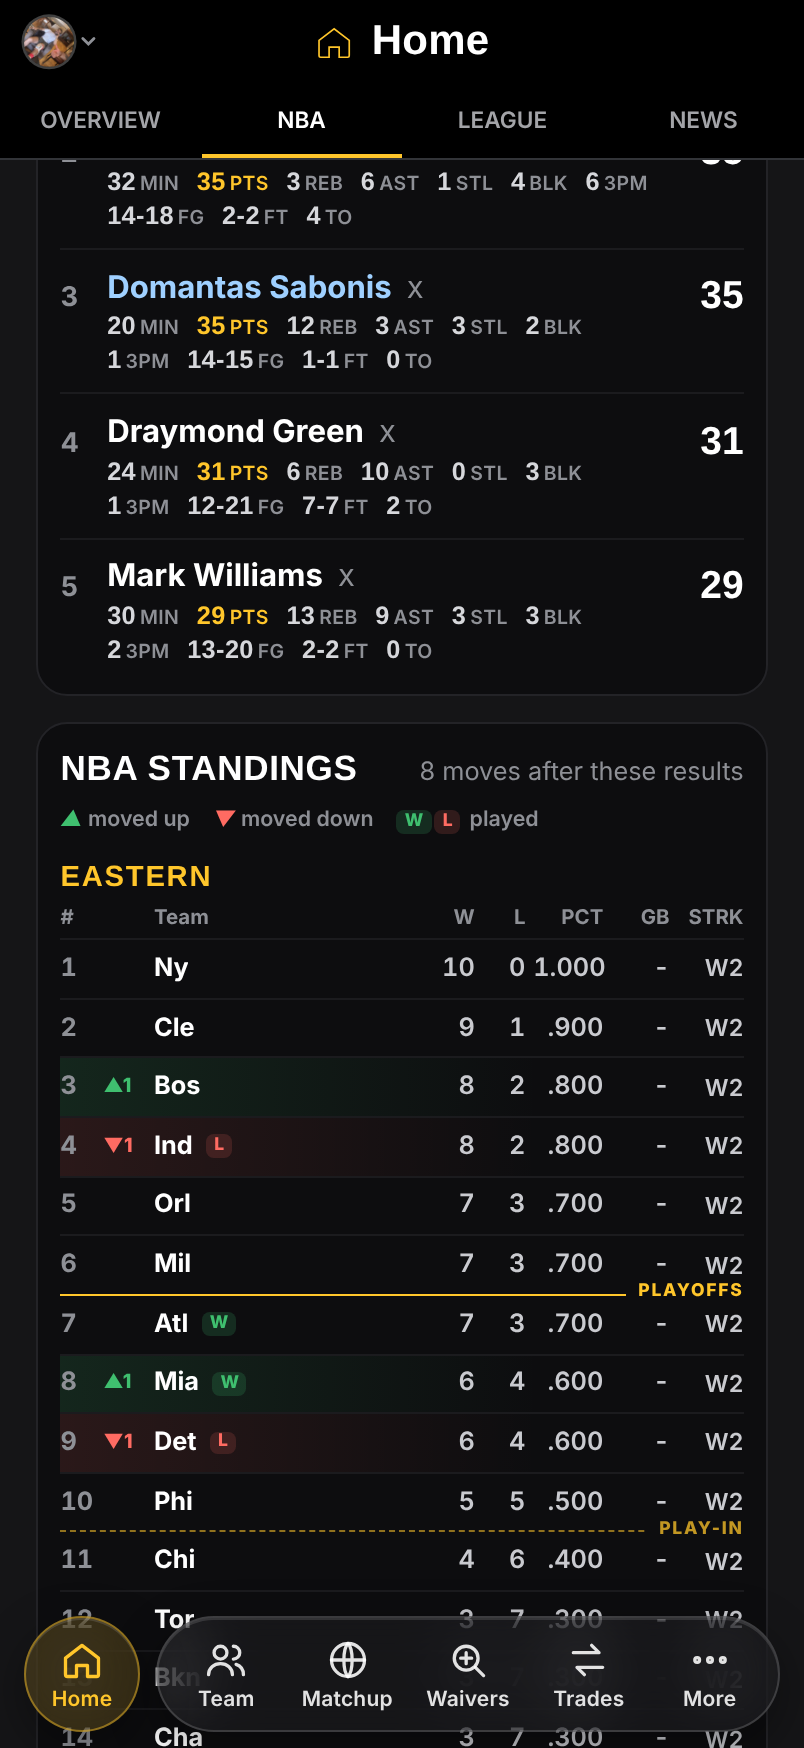
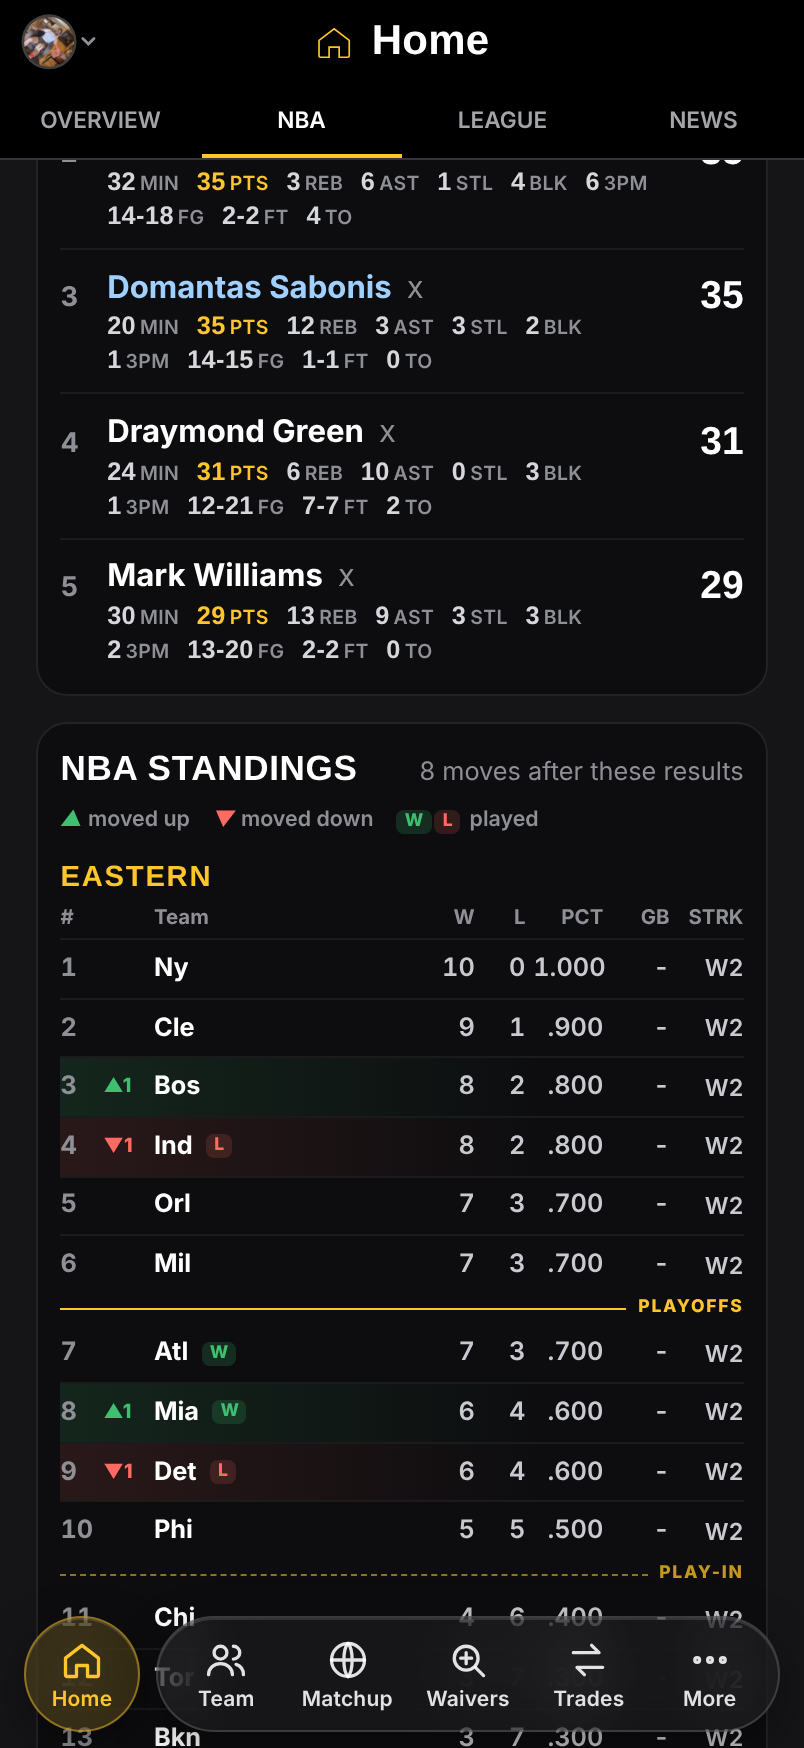
Top performers: rank numbers styled like Leaders
Claude-Session: https://claude.ai/code/session_01Bze7554zYTgci3mfzKEDgc

diff --git a/classic.html b/classic.html
@@ -1310,6 +1310,9 @@ html body .hdstk.fphd .fphtabs button{font-size:13.5px!important}
 #fphc .nhstand .nscut::before{content:"";flex:1;border-top:2px solid #ffc62b}
 #fphc .nhstand .nscut.pi::before{border-top:2px dashed rgba(255,198,43,.55)}
 #fphc .nhstand .nscut span{position:static;padding:0;background:none}
+#fphc .nht .pn .rk{position:static;box-shadow:none;background:none;color:#8e9096;font:700 14px system-ui;min-width:16px;height:auto;line-height:normal;padding:0;border-radius:0;text-align:left}
+#fphc .nht .pn{gap:8px;padding-left:0}
+#fphc .nht .hr span:first-child{padding-left:62px}
 </style>
 <div class="stage">
  <aside class="side"><h1>Fantasy Plus <span>for iPhone</span></h1><p>Design of the iPhone app. Tap around, it all works: the tabs, the players, the trade builder.</p><ul><li><b>Home</b>: score, last night, this week's review, category ranks, waivers. Tap the score for the full game.</li><li><b>Team</b>: roster and player cards</li><li><b>Matchup</b>: ESPN-style category table with our ball logic</li><li><b>More</b>: rankings and settings</li><li><b>Trades</b>: your market and the builder</li></ul><p>Numbers are a snapshot of your Anti-Quemo league (preseason projections). Photos show as initials here; the app uses real headshots.</p><p>On your phone, open this link directly and it fills the screen.</p></aside>

diff --git a/index.html b/index.html
@@ -1362,6 +1362,9 @@ html body .hdstk.fphd .fphtabs button{font-size:13.5px!important}
 #fphc .nhstand .nscut::before{content:"";flex:1;border-top:2px solid #ffc62b}
 #fphc .nhstand .nscut.pi::before{border-top:2px dashed rgba(255,198,43,.55)}
 #fphc .nhstand .nscut span{position:static;padding:0;background:none}
+#fphc .nht .pn .rk{position:static;box-shadow:none;background:none;color:#8e9096;font:700 14px system-ui;min-width:16px;height:auto;line-height:normal;padding:0;border-radius:0;text-align:left}
+#fphc .nht .pn{gap:8px;padding-left:0}
+#fphc .nht .hr span:first-child{padding-left:62px}
 </style>
 <div class="stage">
  <aside class="side"><h1>Fantasy Plus <span>for iPhone</span></h1><p>Design of the iPhone app. Tap around, it all works: the tabs, the players, the trade builder.</p><ul><li><b>Home</b>: score, last night, this week's review, category ranks, waivers. Tap the score for the full game.</li><li><b>Team</b>: roster and player cards</li><li><b>Matchup</b>: ESPN-style category table with our ball logic</li><li><b>More</b>: rankings and settings</li><li><b>Trades</b>: your market and the builder</li></ul><p>Numbers are a snapshot of your Anti-Quemo league (preseason projections). Photos show as initials here; the app uses real headshots.</p><p>On your phone, open this link directly and it fills the screen.</p></aside>
